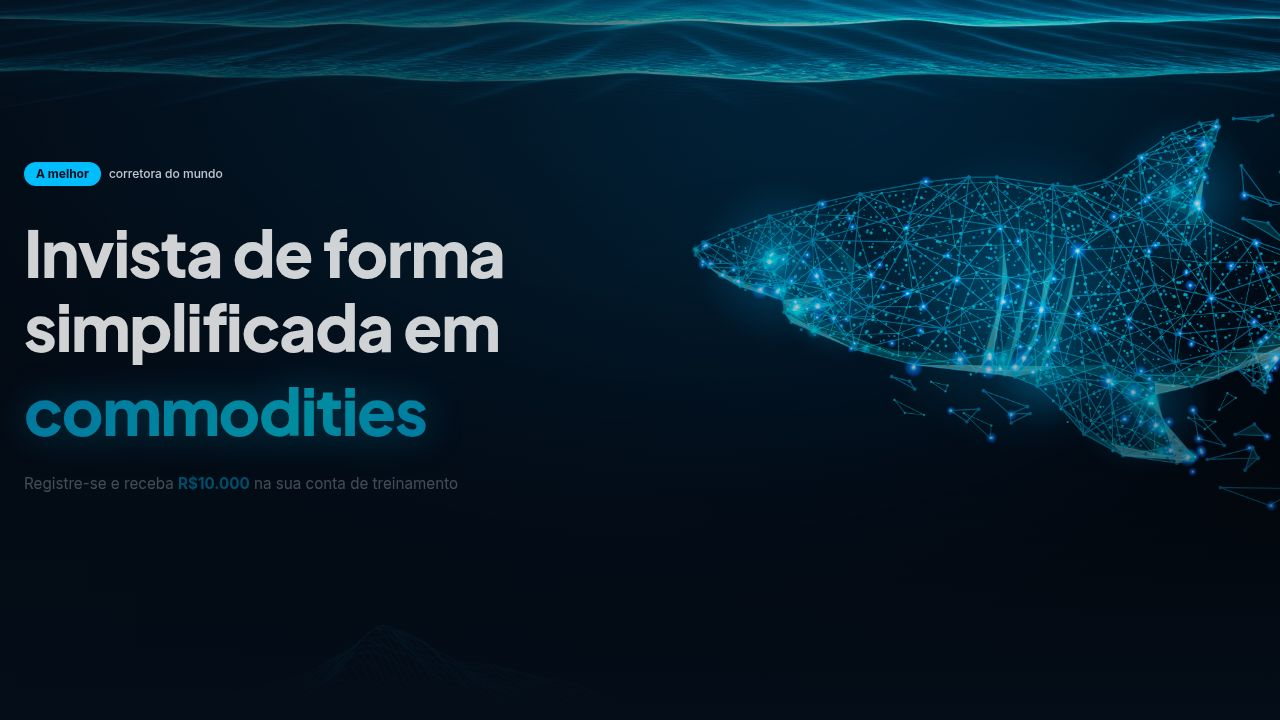
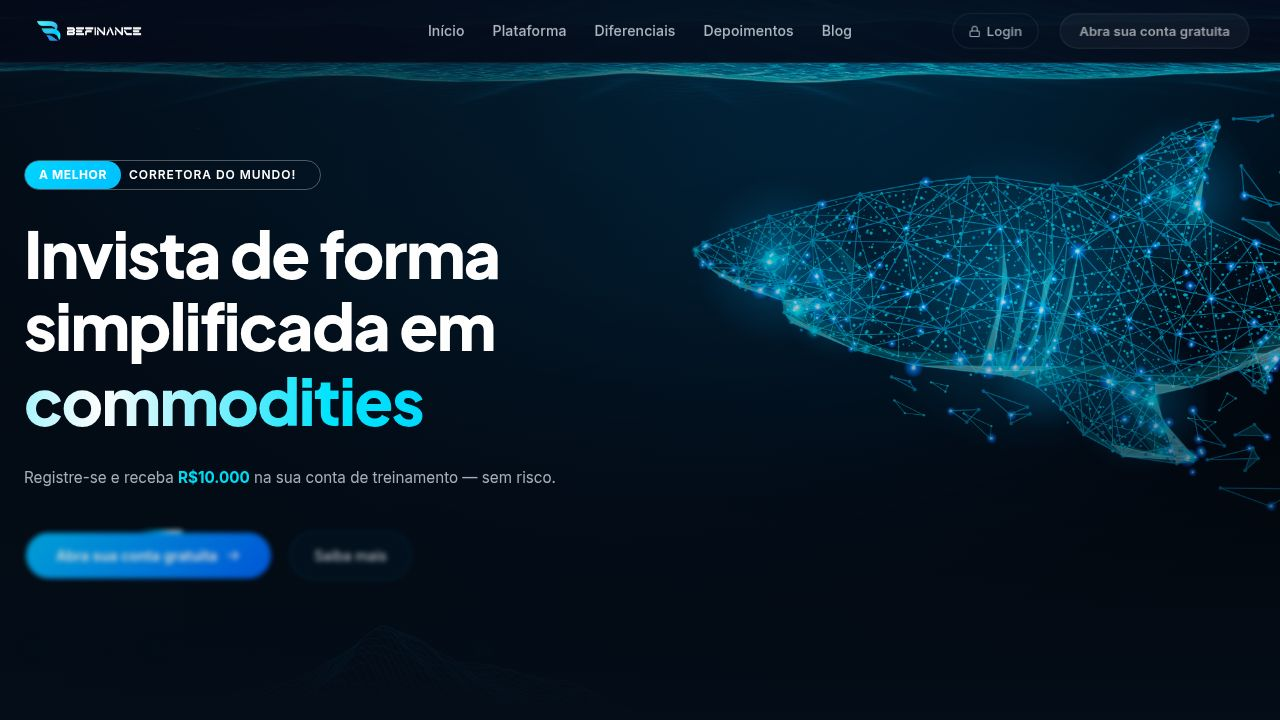
Add interactive 3D laptop animation that opens with scrolling
Integrate Framer Motion for scroll-driven 3D transforms, replacing static feature list with an animated laptop component in PlatformSection.tsx.

Replit-Commit-Author: Agent
Replit-Commit-Session-Id: 4997c82c-4f9c-43e2-8835-ac4c65bac353
Replit-Commit-Checkpoint-Type: full_checkpoint
Replit-Commit-Event-Id: 238c55b4-6cd9-4f22-810d-21cdf988445f
Replit-Commit-Screenshot-Url: https://storage.googleapis.com/screenshot-production-us-central1/54057469-3da0-4a33-8b80-1f3aa844eb4b/4997c82c-4f9c-43e2-8835-ac4c65bac353/2Ztb5pg
Replit-Helium-Checkpoint-Created: true

diff --git a/artifacts/befinance/src/components/PlatformSection.tsx b/artifacts/befinance/src/components/PlatformSection.tsx
@@ -1,93 +1,51 @@
-import { motion } from "framer-motion";
+import { motion, useScroll, useTransform } from "framer-motion";
 import { useRef } from "react";
-import { useInView } from "framer-motion";
-
-const features = [
-  {
-    icon: (
-      <svg width="28" height="28" viewBox="0 0 28 28" fill="none">
-        <rect x="2" y="2" width="24" height="24" rx="6" stroke="#00bfff" strokeWidth="1.5"/>
-        <path d="M7 18L11 13L15 16L21 9" stroke="#00bfff" strokeWidth="1.5" strokeLinecap="round" strokeLinejoin="round"/>
-        <circle cx="21" cy="9" r="2" fill="#00bfff"/>
-      </svg>
-    ),
-    title: "Gráficos Avançados",
-    description: "Analise o mercado com ferramentas profissionais, indicadores técnicos e análises em tempo real para tomar as melhores decisões.",
-  },
-  {
-    icon: (
-      <svg width="28" height="28" viewBox="0 0 28 28" fill="none">
-        <circle cx="14" cy="14" r="11" stroke="#00bfff" strokeWidth="1.5"/>
-        <path d="M14 8V14L18 17" stroke="#00bfff" strokeWidth="1.5" strokeLinecap="round"/>
-        <circle cx="14" cy="14" r="2" fill="#00bfff"/>
-      </svg>
-    ),
-    title: "Execução Instantânea",
-    description: "Ordens executadas em milissegundos com a melhor tecnologia de trading disponível, garantindo que você nunca perca uma oportunidade.",
-  },
-  {
-    icon: (
-      <svg width="28" height="28" viewBox="0 0 28 28" fill="none">
-        <path d="M14 3L25 8.5V19.5L14 25L3 19.5V8.5L14 3Z" stroke="#00bfff" strokeWidth="1.5"/>
-        <path d="M14 3V25M3 8.5L25 19.5M25 8.5L3 19.5" stroke="#00bfff" strokeWidth="1" opacity="0.4"/>
-      </svg>
-    ),
-    title: "Multi-Ativos",
-    description: "Acesse mais de 1000 ativos incluindo ações, criptomoedas, ETFs, commodities e pares de moedas em uma única plataforma integrada.",
-  },
-  {
-    icon: (
-      <svg width="28" height="28" viewBox="0 0 28 28" fill="none">
-        <rect x="4" y="6" width="20" height="16" rx="3" stroke="#00bfff" strokeWidth="1.5"/>
-        <path d="M9 6V4M19 6V4" stroke="#00bfff" strokeWidth="1.5" strokeLinecap="round"/>
-        <path d="M4 11H24" stroke="#00bfff" strokeWidth="1" opacity="0.5"/>
-        <rect x="8" y="14" width="4" height="4" rx="1" fill="#00bfff" opacity="0.6"/>
-        <rect x="16" y="14" width="4" height="4" rx="1" fill="#00bfff" opacity="0.3"/>
-      </svg>
-    ),
-    title: "Conta Demo Gratuita",
-    description: "Pratique com R$10.000 em conta de treinamento sem risco. Aprenda e teste estratégias antes de investir dinheiro real.",
-  },
-  {
-    icon: (
-      <svg width="28" height="28" viewBox="0 0 28 28" fill="none">
-        <path d="M14 4L17 10H23L18.5 14L20.5 20L14 16.5L7.5 20L9.5 14L5 10H11L14 4Z" stroke="#00bfff" strokeWidth="1.5" fill="none"/>
-      </svg>
-    ),
-    title: "Suporte 24/7",
-    description: "Especialistas disponíveis 24 horas por dia, 7 dias por semana para te auxiliar em qualquer questão técnica ou operacional.",
-  },
-  {
-    icon: (
-      <svg width="28" height="28" viewBox="0 0 28 28" fill="none">
-        <path d="M14 3C8 3 3 8 3 14C3 20 8 25 14 25C20 25 25 20 25 14" stroke="#00bfff" strokeWidth="1.5" strokeLinecap="round"/>
-        <path d="M21 3L25 3L25 7" stroke="#00bfff" strokeWidth="1.5" strokeLinecap="round"/>
-        <path d="M25 3L19 9" stroke="#00bfff" strokeWidth="1.5" strokeLinecap="round"/>
-      </svg>
-    ),
-    title: "Segurança Máxima",
-    description: "Seus fundos protegidos com criptografia de ponta, autenticação de dois fatores e segregação de contas para máxima segurança.",
-  },
-];
 
 export default function PlatformSection() {
-  const ref = useRef(null);
-  const inView = useInView(ref, { once: true, margin: "-80px" });
+  const sectionRef = useRef<HTMLDivElement>(null);
+
+  const { scrollYProgress } = useScroll({
+    target: sectionRef,
+    offset: ["start end", "end start"],
+  });
+
+  const lidAngle = useTransform(scrollYProgress, [0.15, 0.5], [-90, 0]);
+  const screenGlow = useTransform(scrollYProgress, [0.35, 0.5], [0, 1]);
 
   return (
     <section
       id="plataforma"
-      ref={ref}
-      className="relative py-28 overflow-hidden section-glow-border"
-      style={{ background: "linear-gradient(180deg, #020814 0%, #040d18 100%)" }}
+      ref={sectionRef}
+      className="relative overflow-hidden section-glow-border"
+      style={{
+        background: "linear-gradient(180deg, #020814 0%, #06081a 50%, #040d18 100%)",
+        paddingTop: "8rem",
+        paddingBottom: "6rem",
+      }}
     >
-      {/* Ambient glow */}
-      <div
-        className="absolute top-1/2 left-1/2 -translate-x-1/2 -translate-y-1/2 w-[700px] h-[700px] rounded-full pointer-events-none"
-        style={{ background: "radial-gradient(circle, rgba(0,191,255,0.04) 0%, transparent 65%)" }}
-      />
+      {/* Candlestick background */}
+      <div className="absolute inset-0 pointer-events-none overflow-hidden opacity-[0.12]">
+        {[...Array(16)].map((_, i) => {
+          const bodyH = 50 + (i * 37 % 180);
+          const wickTop = 15 + (i * 23 % 60);
+          const wickBot = 10 + (i * 19 % 40);
+          const left = 3 + i * 6.2;
+          const bottom = 5 + (i * 13 % 20);
+          return (
+            <div
+              key={i}
+              className="absolute flex flex-col items-center"
+              style={{ left: `${left}%`, bottom: `${bottom}%` }}
+            >
+              <div style={{ width: "1px", height: `${wickTop}px`, background: "rgba(120,70,200,0.6)" }} />
+              <div style={{ width: "6px", height: `${bodyH}px`, background: "rgba(100,50,180,0.2)", borderRadius: "2px" }} />
+              <div style={{ width: "1px", height: `${wickBot}px`, background: "rgba(120,70,200,0.6)" }} />
+            </div>
+          );
+        })}
+      </div>
 
-      <div className="max-w-7xl mx-auto px-6">
+      <div className="max-w-5xl mx-auto px-6 relative z-10">
         {/* Section header */}
         <div className="text-center mb-16">
           <motion.div
@@ -95,12 +53,26 @@ export default function PlatformSection() {
             whileInView={{ opacity: 1, filter: "blur(0px)", y: 0 }}
             viewport={{ once: true }}
             transition={{ duration: 0.65, ease: [0.22, 1, 0.36, 1] }}
-            className="inline-flex items-center gap-2 mb-5 px-4 py-1.5 rounded-full"
-            style={{ background: "rgba(0,191,255,0.07)", border: "1px solid rgba(0,191,255,0.18)" }}
+            className="inline-flex items-center gap-3 mb-6"
           >
-            <div className="w-1.5 h-1.5 rounded-full animate-pulse" style={{ background: "#00bfff" }} />
-            <span style={{ color: "#00bfff", fontSize: "0.7rem", fontFamily: "'Inter', sans-serif", fontWeight: 700, letterSpacing: "0.1em", textTransform: "uppercase" }}>
-              Plataforma
+            <div className="flex -space-x-2.5">
+              {["#00bfff", "#8b5cf6", "#f59e0b", "#10b981"].map((color, i) => (
+                <div
+                  key={i}
+                  className="w-8 h-8 rounded-full border-2 flex items-center justify-center text-[10px] font-bold"
+                  style={{
+                    background: `linear-gradient(135deg, ${color}, ${color}88)`,
+                    borderColor: "#06081a",
+                    color: "#fff",
+                    fontFamily: "'Inter', sans-serif",
+                  }}
+                >
+                  {["M", "A", "R", "L"][i]}
+                </div>
+              ))}
+            </div>
+            <span style={{ fontFamily: "'Inter', sans-serif", fontSize: "0.85rem", color: "rgba(240,248,255,0.65)" }}>
+              Junte-se a <strong style={{ color: "#fff" }}>+ 10.000</strong> Investidores na plataforma
             </span>
           </motion.div>
 
@@ -112,88 +84,153 @@ export default function PlatformSection() {
             style={{
               fontFamily: "'Plus Jakarta Sans', sans-serif",
               fontWeight: 800,
-              fontSize: "clamp(1.8rem, 3.5vw, 2.9rem)",
+              fontSize: "clamp(2rem, 4.5vw, 3.4rem)",
               color: "#ffffff",
-              letterSpacing: "-0.025em",
-              marginBottom: "1rem",
+              letterSpacing: "-0.03em",
+              marginBottom: "1.5rem",
+              lineHeight: 1.15,
             }}
           >
-            Tudo que você precisa para{" "}
-            <span className="shimmer-text">investir melhor</span>
+            Negocie em gráficos ao{" "}
+            <span className="shimmer-text">vivo</span>
           </motion.h2>
 
-          <motion.p
+          <motion.div
             initial={{ opacity: 0, filter: "blur(8px)", y: 16 }}
             whileInView={{ opacity: 1, filter: "blur(0px)", y: 0 }}
             viewport={{ once: true }}
             transition={{ duration: 0.65, delay: 0.2, ease: [0.22, 1, 0.36, 1] }}
-            style={{
-              fontFamily: "'Inter', sans-serif",
-              fontSize: "1rem",
-              color: "rgba(240,248,255,0.58)",
-              maxWidth: "500px",
-              margin: "0 auto",
-              lineHeight: 1.7,
-            }}
           >
-            Nossa plataforma foi desenvolvida por especialistas em mercado financeiro para oferecer a melhor experiência de trading do Brasil.
-          </motion.p>
-        </div>
-
-        {/* Features grid — blur-fade stagger */}
-        <div className="grid grid-cols-1 md:grid-cols-2 lg:grid-cols-3 gap-5">
-          {features.map((feature, i) => (
-            <motion.div
-              key={feature.title}
-              initial={{ opacity: 0, filter: "blur(12px)", y: 32 }}
-              animate={inView ? { opacity: 1, filter: "blur(0px)", y: 0 } : {}}
-              transition={{
-                duration: 0.65,
-                delay: 0.05 * i + 0.1,
-                ease: [0.22, 1, 0.36, 1],
-              }}
-              className="kyvoo-card group p-6 rounded-2xl cursor-default"
+            <a
+              href="#"
+              className="inline-flex items-center gap-2 px-7 py-3 rounded-full text-sm font-medium"
               style={{
-                background: "rgba(4, 20, 40, 0.45)",
-                border: "1px solid rgba(0, 191, 255, 0.09)",
-                backdropFilter: "blur(12px)",
-                borderRadius: "16px",
+                fontFamily: "'Inter', sans-serif",
+                color: "rgba(240,248,255,0.85)",
+                textDecoration: "none",
+                border: "1px solid rgba(255,255,255,0.18)",
+                background: "rgba(255,255,255,0.04)",
+                backdropFilter: "blur(10px)",
               }}
             >
-              <div
-                className="w-14 h-14 rounded-xl flex items-center justify-center mb-5 transition-all duration-300 group-hover:scale-110 group-hover:border-cyan-400/30"
-                style={{
-                  background: "rgba(0, 191, 255, 0.07)",
-                  border: "1px solid rgba(0,191,255,0.13)",
-                  transition: "all 0.3s cubic-bezier(0.22, 1, 0.36, 1)",
-                }}
+              Abra sua conta gratuita
+            </a>
+          </motion.div>
+        </div>
+
+        {/* Laptop - 3D opening animation */}
+        <div className="relative max-w-[850px] mx-auto" style={{ perspective: "1800px" }}>
+          {/* Laptop lid */}
+          <motion.div
+            style={{
+              rotateX: lidAngle,
+              transformOrigin: "bottom center",
+              transformStyle: "preserve-3d",
+            }}
+          >
+            <div
+              className="relative rounded-t-xl overflow-hidden"
+              style={{
+                background: "#0c0c0c",
+                border: "3px solid #222",
+                borderBottom: "none",
+                padding: "12px 12px 0",
+                aspectRatio: "16 / 10",
+              }}
+            >
+              {/* Camera */}
+              <div className="absolute top-[5px] left-1/2 -translate-x-1/2 w-2 h-2 rounded-full" style={{ background: "#1a1a1a", border: "1px solid #333" }} />
+
+              {/* Screen */}
+              <motion.div
+                className="w-full h-full rounded-t-md overflow-hidden"
+                style={{ opacity: screenGlow }}
               >
-                {feature.icon}
-              </div>
-              <h3
-                style={{
-                  fontFamily: "'Plus Jakarta Sans', sans-serif",
-                  fontWeight: 700,
-                  fontSize: "1.05rem",
-                  color: "#fff",
-                  marginBottom: "0.65rem",
-                  letterSpacing: "-0.01em",
-                }}
-              >
-                {feature.title}
-              </h3>
-              <p
-                style={{
-                  fontFamily: "'Inter', sans-serif",
-                  fontSize: "0.875rem",
-                  color: "rgba(240,248,255,0.52)",
-                  lineHeight: 1.68,
-                }}
-              >
-                {feature.description}
-              </p>
-            </motion.div>
-          ))}
+                <div
+                  className="w-full h-full"
+                  style={{
+                    background: "linear-gradient(135deg, #0a0e27, #1a1040 30%, #0d1530 60%, #080c20)",
+                  }}
+                >
+                  {/* Placeholder UI */}
+                  <div className="w-full h-full p-3 flex flex-col gap-2">
+                    <div className="flex items-center gap-2 px-1">
+                      <div className="w-14 h-4 rounded-sm" style={{ background: "rgba(0,191,255,0.35)" }} />
+                      <div className="w-20 h-4 rounded-sm" style={{ background: "rgba(139,92,246,0.3)" }} />
+                      <div className="flex-1" />
+                      <div className="w-16 h-4 rounded-sm" style={{ background: "rgba(16,185,129,0.3)" }} />
+                    </div>
+                    <div className="flex-1 flex gap-2">
+                      <div className="flex-1 rounded-md p-2" style={{ background: "rgba(255,255,255,0.02)", border: "1px solid rgba(255,255,255,0.05)" }}>
+                        <svg width="100%" height="100%" viewBox="0 0 400 180" preserveAspectRatio="none">
+                          {[30, 70, 110, 150, 190, 230, 270, 310, 350].map((x, j) => {
+                            const green = [0, 2, 4, 5, 7, 8].includes(j);
+                            const bh = 12 + ((j * 31) % 50);
+                            const y = 30 + ((j * 17) % 90);
+                            return (
+                              <g key={j}>
+                                <line x1={x} y1={y - 12} x2={x} y2={y + bh + 12} stroke={green ? "#10b981" : "#ef4444"} strokeWidth="1" />
+                                <rect x={x - 7} y={y} width="14" height={bh} fill={green ? "#10b981" : "#ef4444"} rx="1" />
+                              </g>
+                            );
+                          })}
+                        </svg>
+                      </div>
+                      <div className="w-[22%] rounded-md p-2 flex flex-col gap-1.5" style={{ background: "rgba(255,255,255,0.02)", border: "1px solid rgba(255,255,255,0.05)" }}>
+                        <div className="w-full h-3 rounded-sm" style={{ background: "rgba(0,191,255,0.25)" }} />
+                        <div className="w-3/4 h-2.5 rounded-sm" style={{ background: "rgba(255,255,255,0.08)" }} />
+                        <div className="w-full h-2.5 rounded-sm" style={{ background: "rgba(255,255,255,0.05)" }} />
+                        <div className="mt-auto flex flex-col gap-1.5">
+                          <div className="w-full h-6 rounded-sm" style={{ background: "rgba(16,185,129,0.45)" }} />
+                          <div className="w-full h-6 rounded-sm" style={{ background: "rgba(239,68,68,0.4)" }} />
+                        </div>
+                      </div>
+                    </div>
+                  </div>
+                </div>
+              </motion.div>
+            </div>
+          </motion.div>
+
+          {/* Hinge */}
+          <div
+            className="relative"
+            style={{
+              background: "linear-gradient(180deg, #2a2a2a, #191919)",
+              height: "12px",
+              borderRadius: "0 0 2px 2px",
+              boxShadow: "0 2px 12px rgba(0,0,0,0.5)",
+            }}
+          >
+            <div
+              className="absolute top-0 left-1/2 -translate-x-1/2 rounded-b"
+              style={{ width: "70px", height: "4px", background: "#2d2d2d" }}
+            />
+          </div>
+
+          {/* Keyboard base */}
+          <div
+            className="mx-auto"
+            style={{
+              width: "94%",
+              height: "8px",
+              background: "linear-gradient(180deg, #181818, #0d0d0d)",
+              borderRadius: "0 0 6px 6px",
+              boxShadow: "0 6px 30px rgba(0,0,0,0.5)",
+            }}
+          />
+
+          {/* Glow reflection */}
+          <motion.div
+            className="mx-auto mt-2 rounded-full pointer-events-none"
+            style={{
+              width: "60%",
+              height: "20px",
+              background: "radial-gradient(ellipse, rgba(0,191,255,0.1), transparent 70%)",
+              filter: "blur(10px)",
+              opacity: screenGlow,
+            }}
+          />
         </div>
       </div>
     </section>